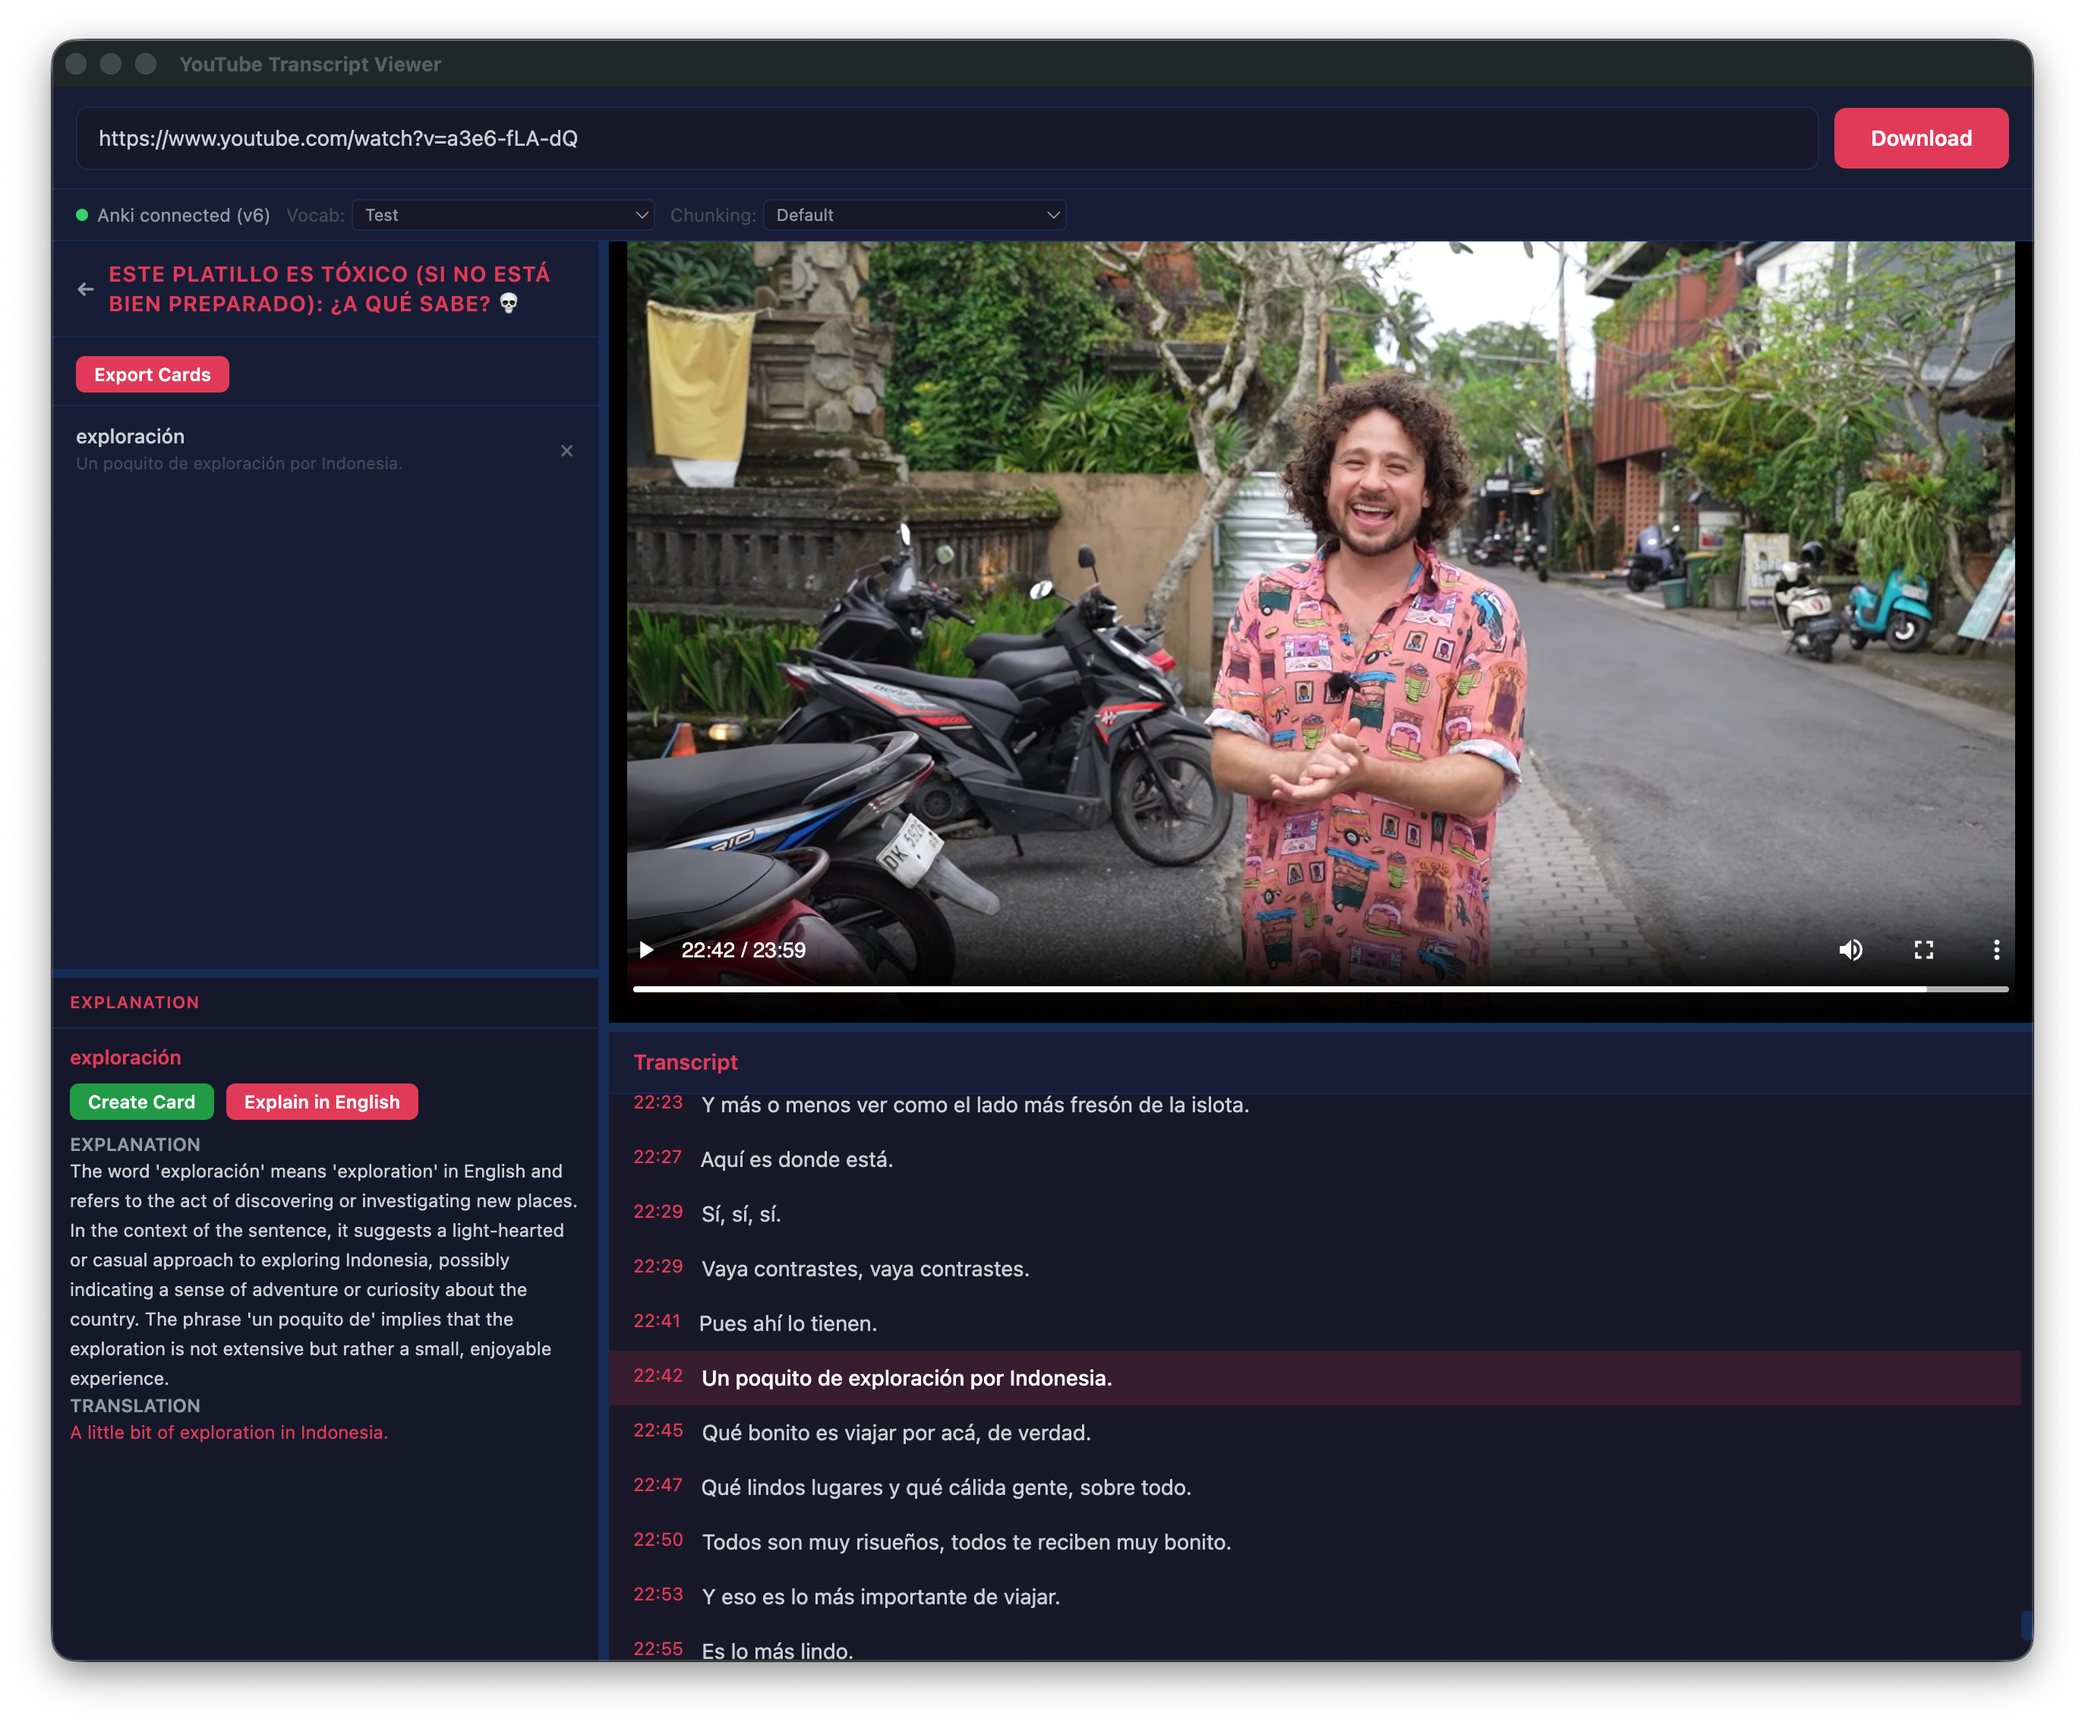
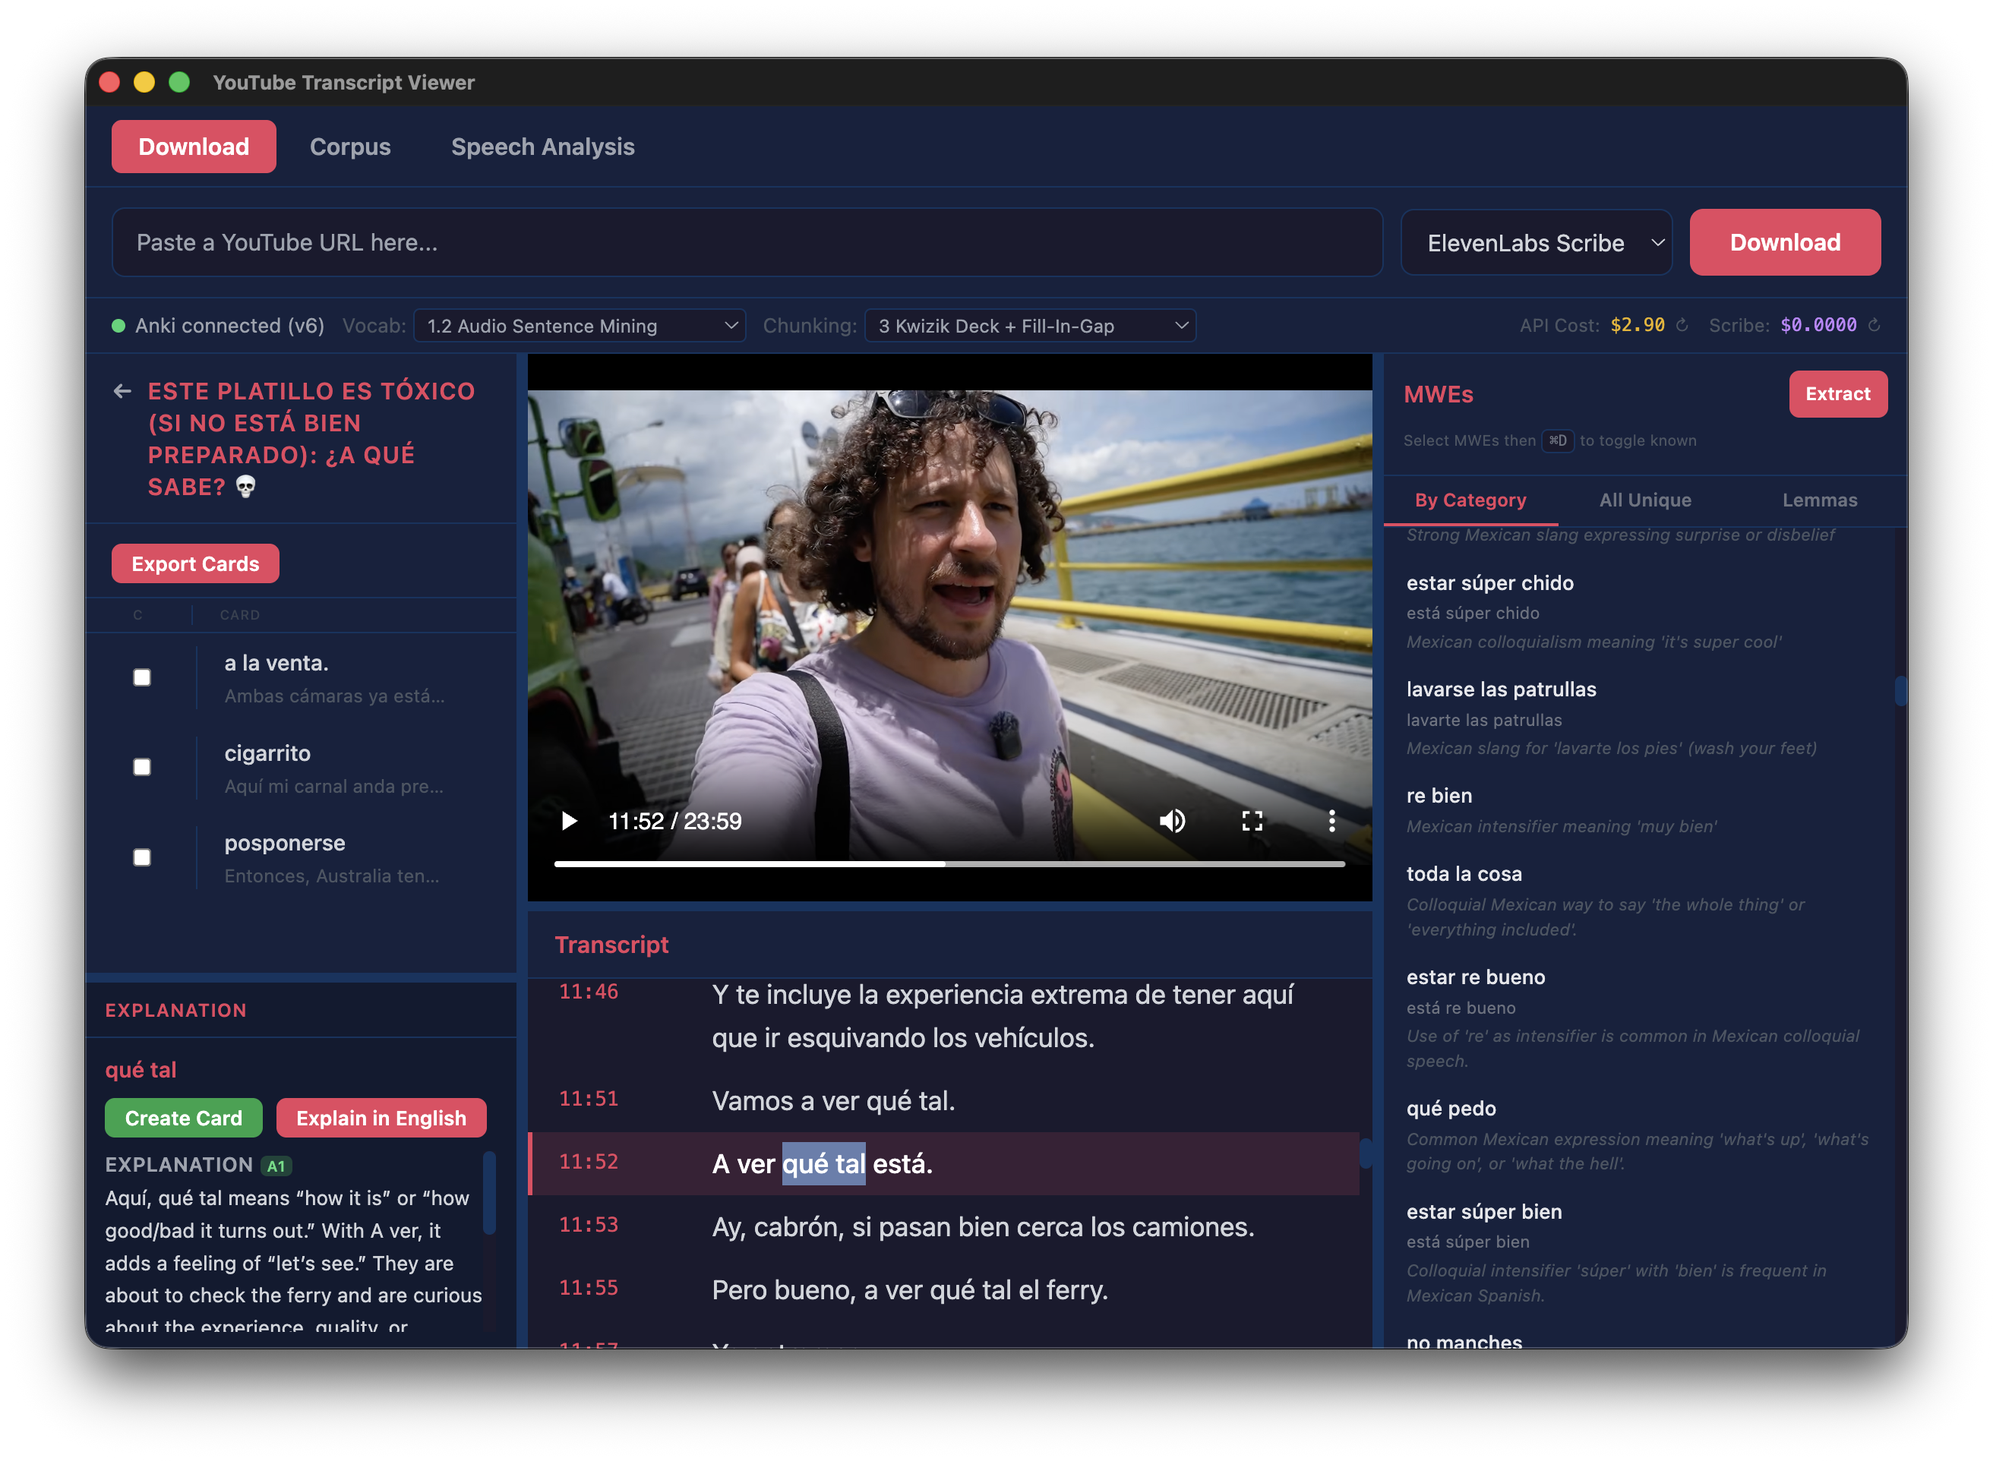
updates

diff --git a/src/renderer/modules/cards.ts b/src/renderer/modules/cards.ts
@@ -12,6 +12,7 @@ import {
   currentExplanation,
   currentSelectedText,
   currentSelectionContext,
+  cachedTranscriptLemmas,
   setSidebarView,
   setCurrentAnchorIndex,
   setCurrentTranslation,
@@ -464,8 +465,27 @@ export function initCards(): void {
     if (result.success && (result.translation || result.explanation)) {
       setCurrentTranslation(result.translation || '');
       setCurrentExplanation(result.explanation || '');
+
+      // Look up CEFR level from cached lemmas
+      const cefrColors: Record<string, string> = {
+        A1: 'bg-green-600/30 text-green-400',
+        A2: 'bg-green-600/20 text-green-500',
+        B1: 'bg-yellow-600/20 text-yellow-400',
+        B2: 'bg-yellow-600/15 text-yellow-500',
+        C1: 'bg-red-600/20 text-red-400',
+        C2: 'bg-red-600/15 text-red-500',
+      };
+      const selectedLower = currentSelectedText.toLowerCase().trim();
+      const matchedLemma = cachedTranscriptLemmas?.find(
+        l => l.lemma.toLowerCase() === selectedLower || selectedLower.includes(l.lemma.toLowerCase())
+      );
+      const cefrLevel = matchedLemma?.cefr_level;
+      const cefrPill = cefrLevel
+        ? `<span class="text-[9px] px-1 py-px rounded ${cefrColors[cefrLevel] || 'bg-gray-700 text-gray-400'} ml-1">${cefrLevel}</span>`
+        : '';
+
       explainPanelResult.innerHTML = `
-        ${currentExplanation ? `<div class="text-xs font-semibold text-gray-400 uppercase tracking-wide mb-0.5">Explanation</div><div class="text-xs text-gray-300 leading-relaxed">${escapeHtml(currentExplanation)}</div>` : ''}
+        ${currentExplanation ? `<div class="text-xs font-semibold text-gray-400 uppercase tracking-wide mb-0.5">Explanation${cefrPill}</div><div class="text-xs text-gray-300 leading-relaxed">${escapeHtml(currentExplanation)}</div>` : ''}
         ${currentTranslation ? `<div class="text-xs font-semibold text-gray-400 uppercase tracking-wide mt-1 mb-0.5">Translation</div><div class="text-xs text-accent leading-relaxed">${escapeHtml(currentTranslation)}</div>` : ''}
       `;
       createCardBtn.classList.remove('hidden');

diff --git a/src/main/ipc/download.ts b/src/main/ipc/download.ts
@@ -16,6 +16,7 @@ export function registerDownloadHandlers(getMainWindow: () => BrowserWindow | nu
       const venvPython = path.join(__dirname, '..', '..', '..', '..', '.venv', 'bin', 'python3');
       const proc = spawn(venvPython, [scriptPath, url, DOWNLOADS_DIR, transcriptionMethod], {
         cwd: path.join(__dirname, '..', '..', '..', '..'),
+        detached: true,
       });
       activeDownloadProc = proc;
       downloadWasCancelled = false;
@@ -90,9 +91,14 @@ export function registerDownloadHandlers(getMainWindow: () => BrowserWindow | nu
   });
 
   ipcMain.handle('cancel-download', async () => {
-    if (activeDownloadProc && !activeDownloadProc.killed) {
+    if (activeDownloadProc && !activeDownloadProc.killed && activeDownloadProc.pid) {
       downloadWasCancelled = true;
-      activeDownloadProc.kill();
+      // Kill the entire process group (Python + yt-dlp/ffmpeg children)
+      try {
+        process.kill(-activeDownloadProc.pid, 'SIGKILL');
+      } catch {
+        activeDownloadProc.kill('SIGKILL');
+      }
     }
   });
 

diff --git a/src/main/mwe/mwe-prompts.ts b/src/main/mwe/mwe-prompts.ts
@@ -49,6 +49,7 @@ Given numbered sentences from a Mexican Spanish transcript, extract ALL multiwor
 - Include the sentence_index (which sentence in the batch this came from, 0-based).
 - If a word is part of multiple overlapping MWEs, extract both.
 - Do NOT extract simple verb conjugations, regular noun phrases, or transparent compositions.
+- Do NOT extract "ser/estar + adjective/adverb/pronoun" combinations that are fully compositional (e.g., "es cierto", "es como", "es este", "es bueno", "está bien", "es muy", "es algo"). These are transparent predications, not MWEs. Only extract ser/estar phrases if they form a genuine idiom or fixed expression (e.g., "es que" as a discourse marker, "está cañón" as a mexicanismo).
 - Err on the side of inclusion for Mexican colloquial speech. If it sounds like a "chunk" a native speaker produces as a unit, extract it.
 
 ## Output Format

diff --git a/README.md b/README.md
@@ -6,12 +6,14 @@ A desktop app for learning Spanish from YouTube videos. Download a video, get an
 
 ## Features
 
-- **Download & Transcribe** — Paste a YouTube URL, download the video, and get automatic Spanish subtitles via MLX Whisper (Apple Silicon optimized)
-- **Interactive Transcript** — Synced, clickable transcript that highlights as the video plays
-- **AI Explanations** — Select any Spanish phrase to get an explanation and translation powered by OpenAI
-- **Anki Card Creation** — One-click card creation capturing the phrase, sentence, context, explanation, and translation
-- **Media Export** — Cards exported to Anki include extracted audio clips and video screenshots
-- **Dual Deck Support** — Choose separate Anki decks for vocabulary cards and chunking cards
+- **Download & Transcribe** — Paste a YouTube URL to download the video and generate a Spanish transcript via MLX Whisper (Apple Silicon optimized)
+- **Interactive Transcript** — Clickable, synced transcript that highlights as the video plays
+- **AI Explanations** — Select any Spanish phrase to get an explanation and translation via OpenAI
+- **Speech Analysis** — Analyze pronunciation and speech patterns from the video
+- **Lemma Analysis** — Extract and analyze vocabulary by lemma across a transcript
+- **Anki Card Creation** — One-click flashcard creation capturing the phrase, sentence, context, explanation, and translation
+- **Media Export** — Exported Anki cards include extracted audio clips and video screenshots
+- **Dual Deck Support** — Choose separate Anki decks for vocabulary and chunking cards
 - **Resizable Panels** — Drag-to-resize video, sidebar, and explanation panels
 
 ## Prerequisites
@@ -19,7 +21,7 @@ A desktop app for learning Spanish from YouTube videos. Download a video, get an
 - **macOS** (Apple Silicon recommended for MLX Whisper)
 - **Node.js** 18+
 - **Python** 3.9+
-- **Anki** with [AnkiConnect](https://ankiweb.net/shared/info/2055492159) plugin installed
+- **Anki** with [AnkiConnect](https://ankiweb.net/shared/info/2055492159) installed
 - **yt-dlp** and **FFmpeg**:
   ```bash
   brew install yt-dlp ffmpeg
@@ -43,42 +45,73 @@ A desktop app for learning Spanish from YouTube videos. Download a video, get an
    OPENAI_API_KEY=sk-proj-your-key-here
    ```
 
-3. Build and run:
+3. Build and launch:
    ```bash
    npm start
    ```
 
 ## Usage
 
-1. Paste a YouTube URL and click **Download** — the app downloads the video and transcribes it
+1. Paste a YouTube URL and click **Download** — the app downloads and transcribes the video
 2. Watch the video with the synced transcript panel
-3. Select any Spanish text and click **Explain** to get an AI explanation and translation
+3. Select any Spanish text and click **Explain** to get an AI explanation
 4. Click **Create Card** to save a flashcard
-5. Choose your target Anki deck from the dropdown and click **Export Cards** to send them to Anki with audio and screenshots
+5. Choose your target Anki deck and click **Export Cards** to send cards to Anki with audio and screenshots
 
 ## Project Structure
 
 ```
-├── main.ts              # Electron main process (IPC, Anki export, FFmpeg)
-├── renderer.ts          # UI logic (video player, transcript, cards)
-├── preload.ts           # IPC bridge between main and renderer
-├── index.html           # App layout
-├── src/input.css        # Tailwind source CSS
-├── scripts/
-│   ├── download.py      # YouTube download + Whisper transcription
-│   ├── transcribe.py    # Standalone transcription
-│   ├── make_subs2srs.py # Legacy subs2srs deck generator
-│   ├── build_custom_deck.py  # Custom APKG builder
-│   └── make_apkg.py     # APKG from TSV
-├── dist/                # Compiled output (generated)
-├── tsconfig.json
-├── tailwind.config.js
-└── package.json
+src/
+├── main/
+│   ├── index.ts              # Electron main process entry
+│   ├── ipc/
+│   │   ├── anki.ts           # Anki export IPC handlers
+│   │   ├── data.ts           # Data read/write handlers
+│   │   ├── download.ts       # Video download handlers
+│   │   ├── explain.ts        # AI explanation handlers
+│   │   ├── lemma-analysis.ts # Lemma analysis handlers
+│   │   └── speech-analysis.ts
+│   ├── mwe/
+│   │   ├── mwe-ipc.ts        # MWE IPC handlers
+│   │   ├── mwe-pipeline.ts   # Card generation pipeline
+│   │   └── mwe-prompts.ts    # OpenAI prompts
+│   └── services/
+│       ├── openai.ts         # OpenAI client
+│       ├── python-runner.ts  # Python subprocess runner
+│       └── storage.ts        # Persistent storage
+├── renderer/
+│   ├── index.ts              # Renderer entry
+│   ├── state.ts              # App state
+│   ├── utils.ts
+│   └── modules/
+│       ├── anki-ui.ts        # Anki deck UI
+│       ├── cards.ts          # Flashcard management
+│       ├── corpus-page.ts    # Corpus/lemma page
+│       ├── download.ts       # Download UI
+│       ├── layout.ts         # Panel layout / resize
+│       ├── mwe-panel.ts      # MWE explanation panel
+│       ├── navigation.ts     # Page navigation
+│       ├── speech-analysis.ts
+│       └── video-player.ts   # Video + transcript sync
+├── preload.ts                # IPC bridge
+└── input.css                 # Tailwind source
+scripts/
+├── download.py               # YouTube download + Whisper transcription
+├── transcribe.py             # Standalone transcription
+├── extract_lemmas.py         # Lemma extraction
+├── transcript_lemmas.py      # Transcript-level lemma analysis
+├── zipf_lookup.py            # Zipf frequency lookup
+├── build_cefr_json.py        # CEFR word list builder
+├── build_custom_deck.py      # Custom APKG builder
+├── make_apkg.py              # APKG from TSV
+├── make_subs2srs.py          # subs2srs deck generator
+└── playlist_transcribe.py    # Batch playlist transcription
 ```
 
 ## Tech Stack
 
 - **Electron** + **TypeScript** — Desktop app framework
+- **esbuild** — Renderer bundler
 - **Tailwind CSS** — Styling
 - **MLX Whisper** — On-device Spanish transcription (Apple Silicon)
 - **OpenAI API** (gpt-4o-mini) — Phrase explanation and translation
